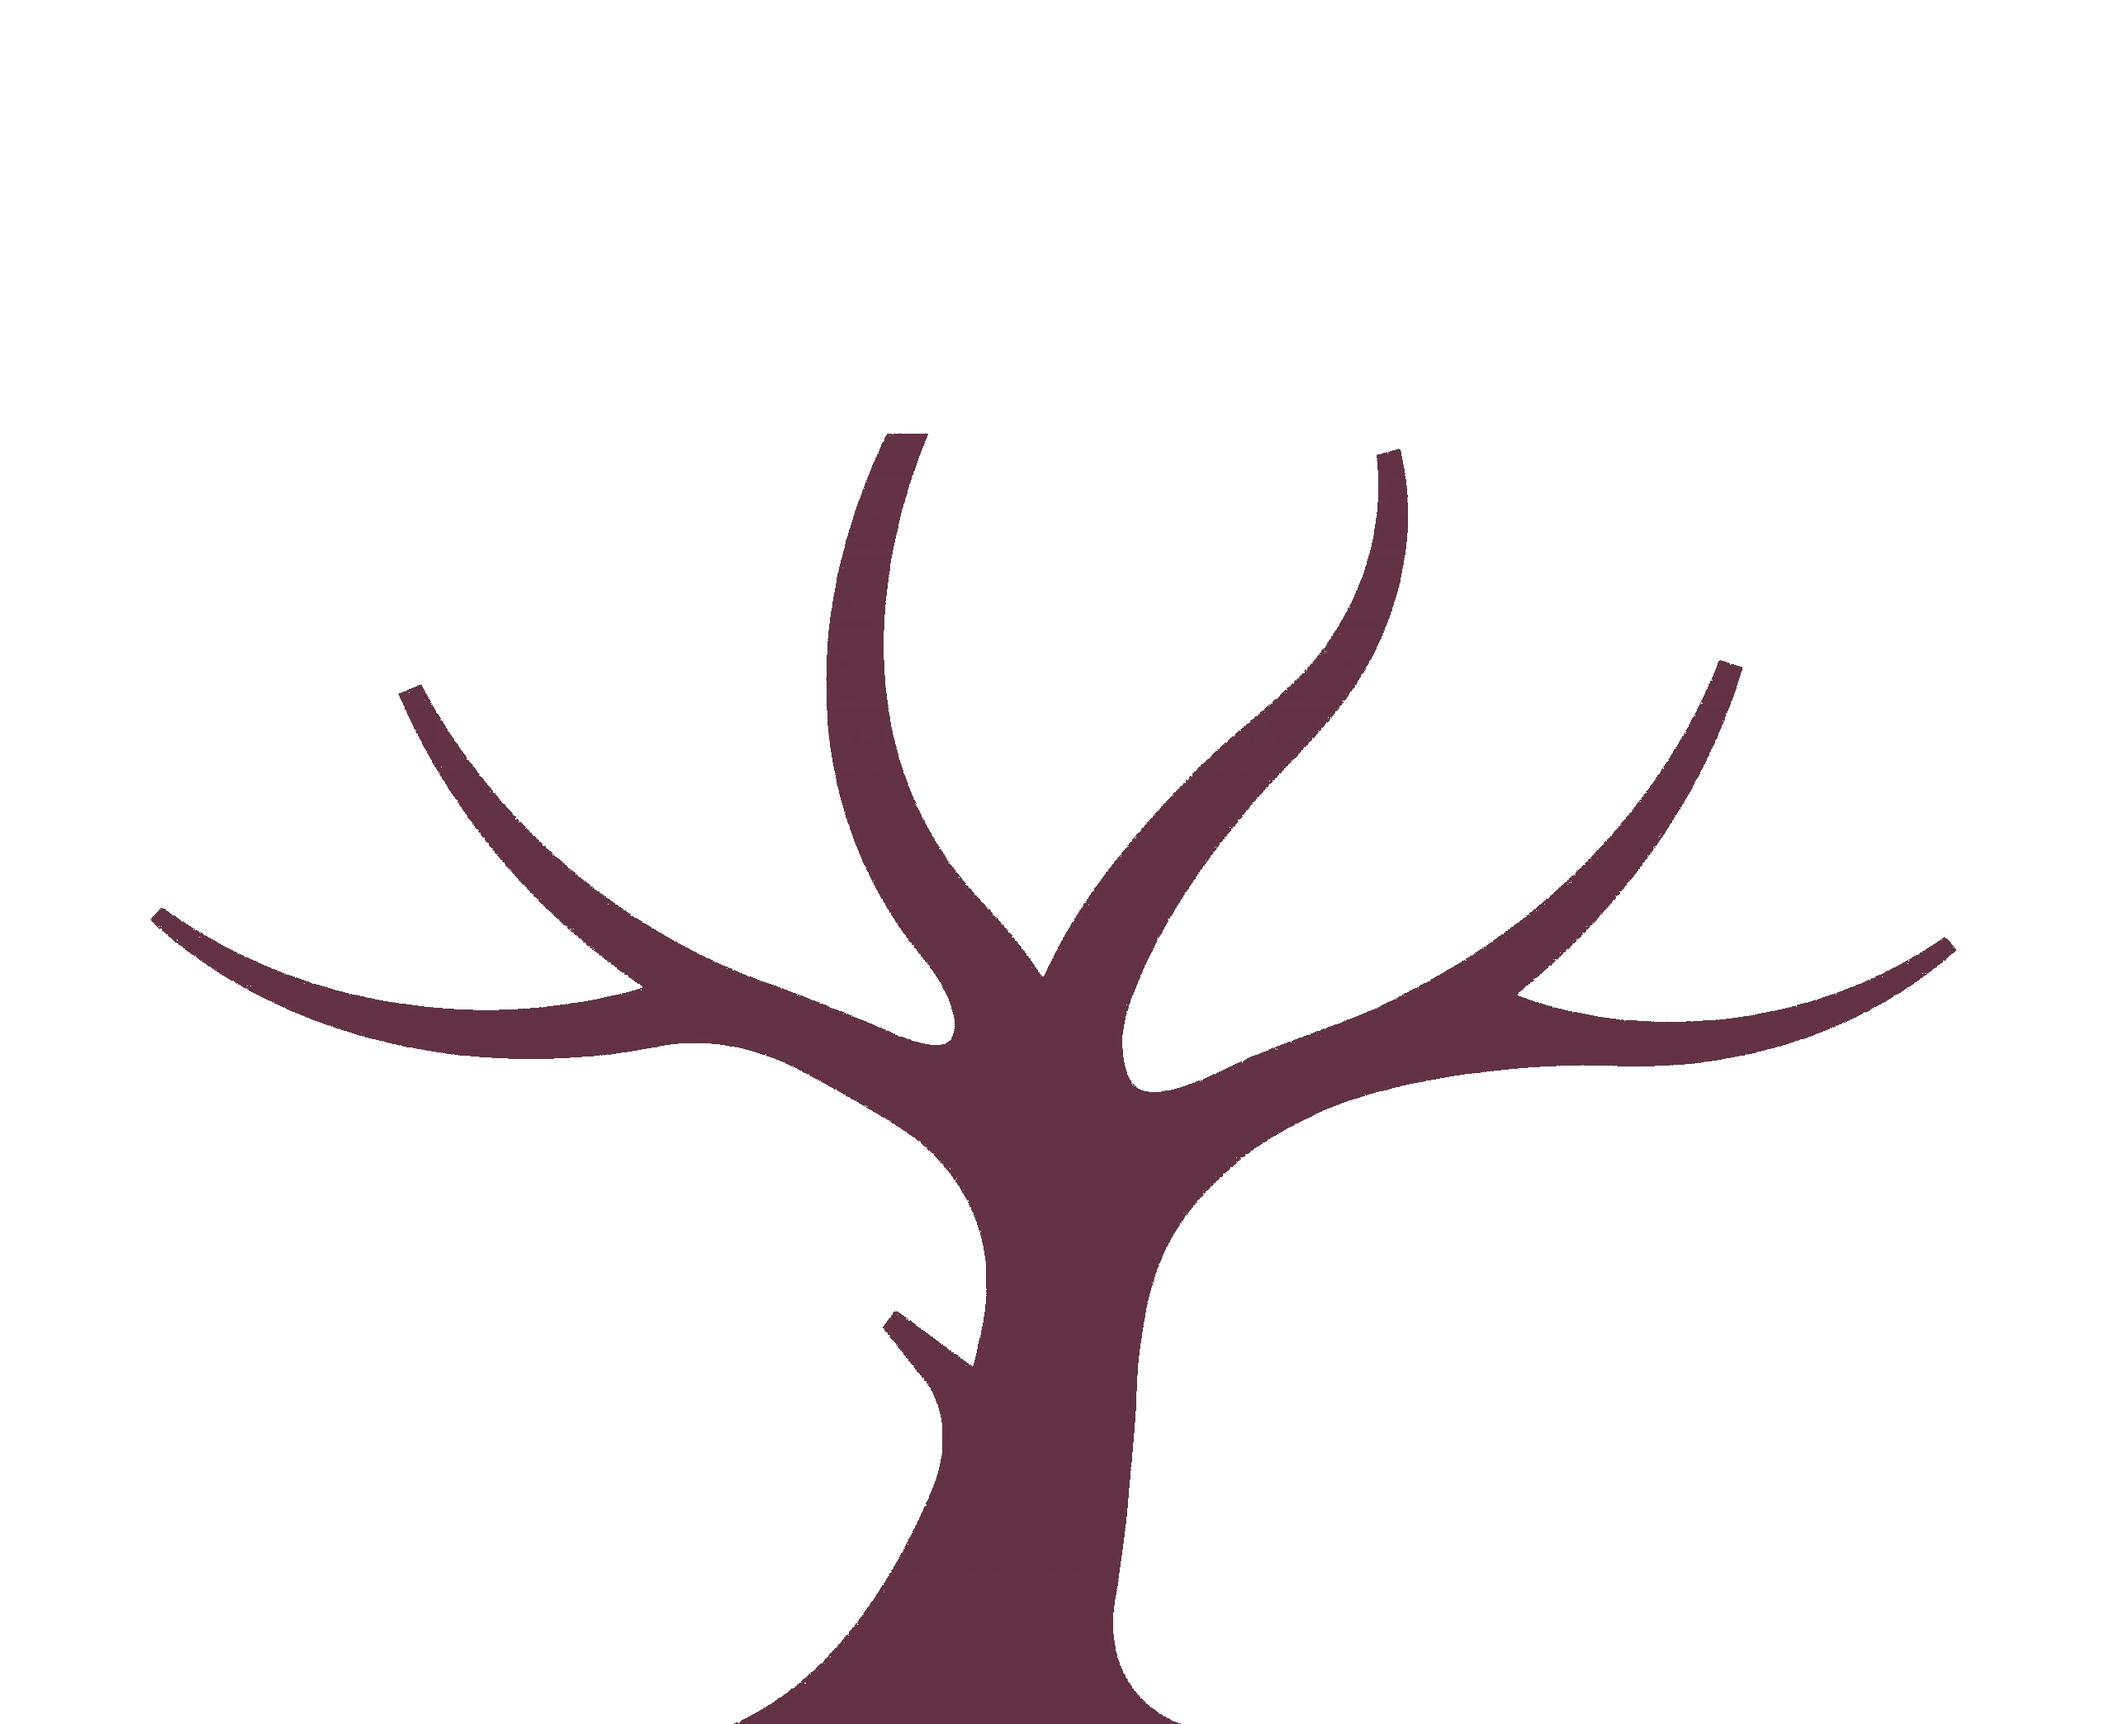
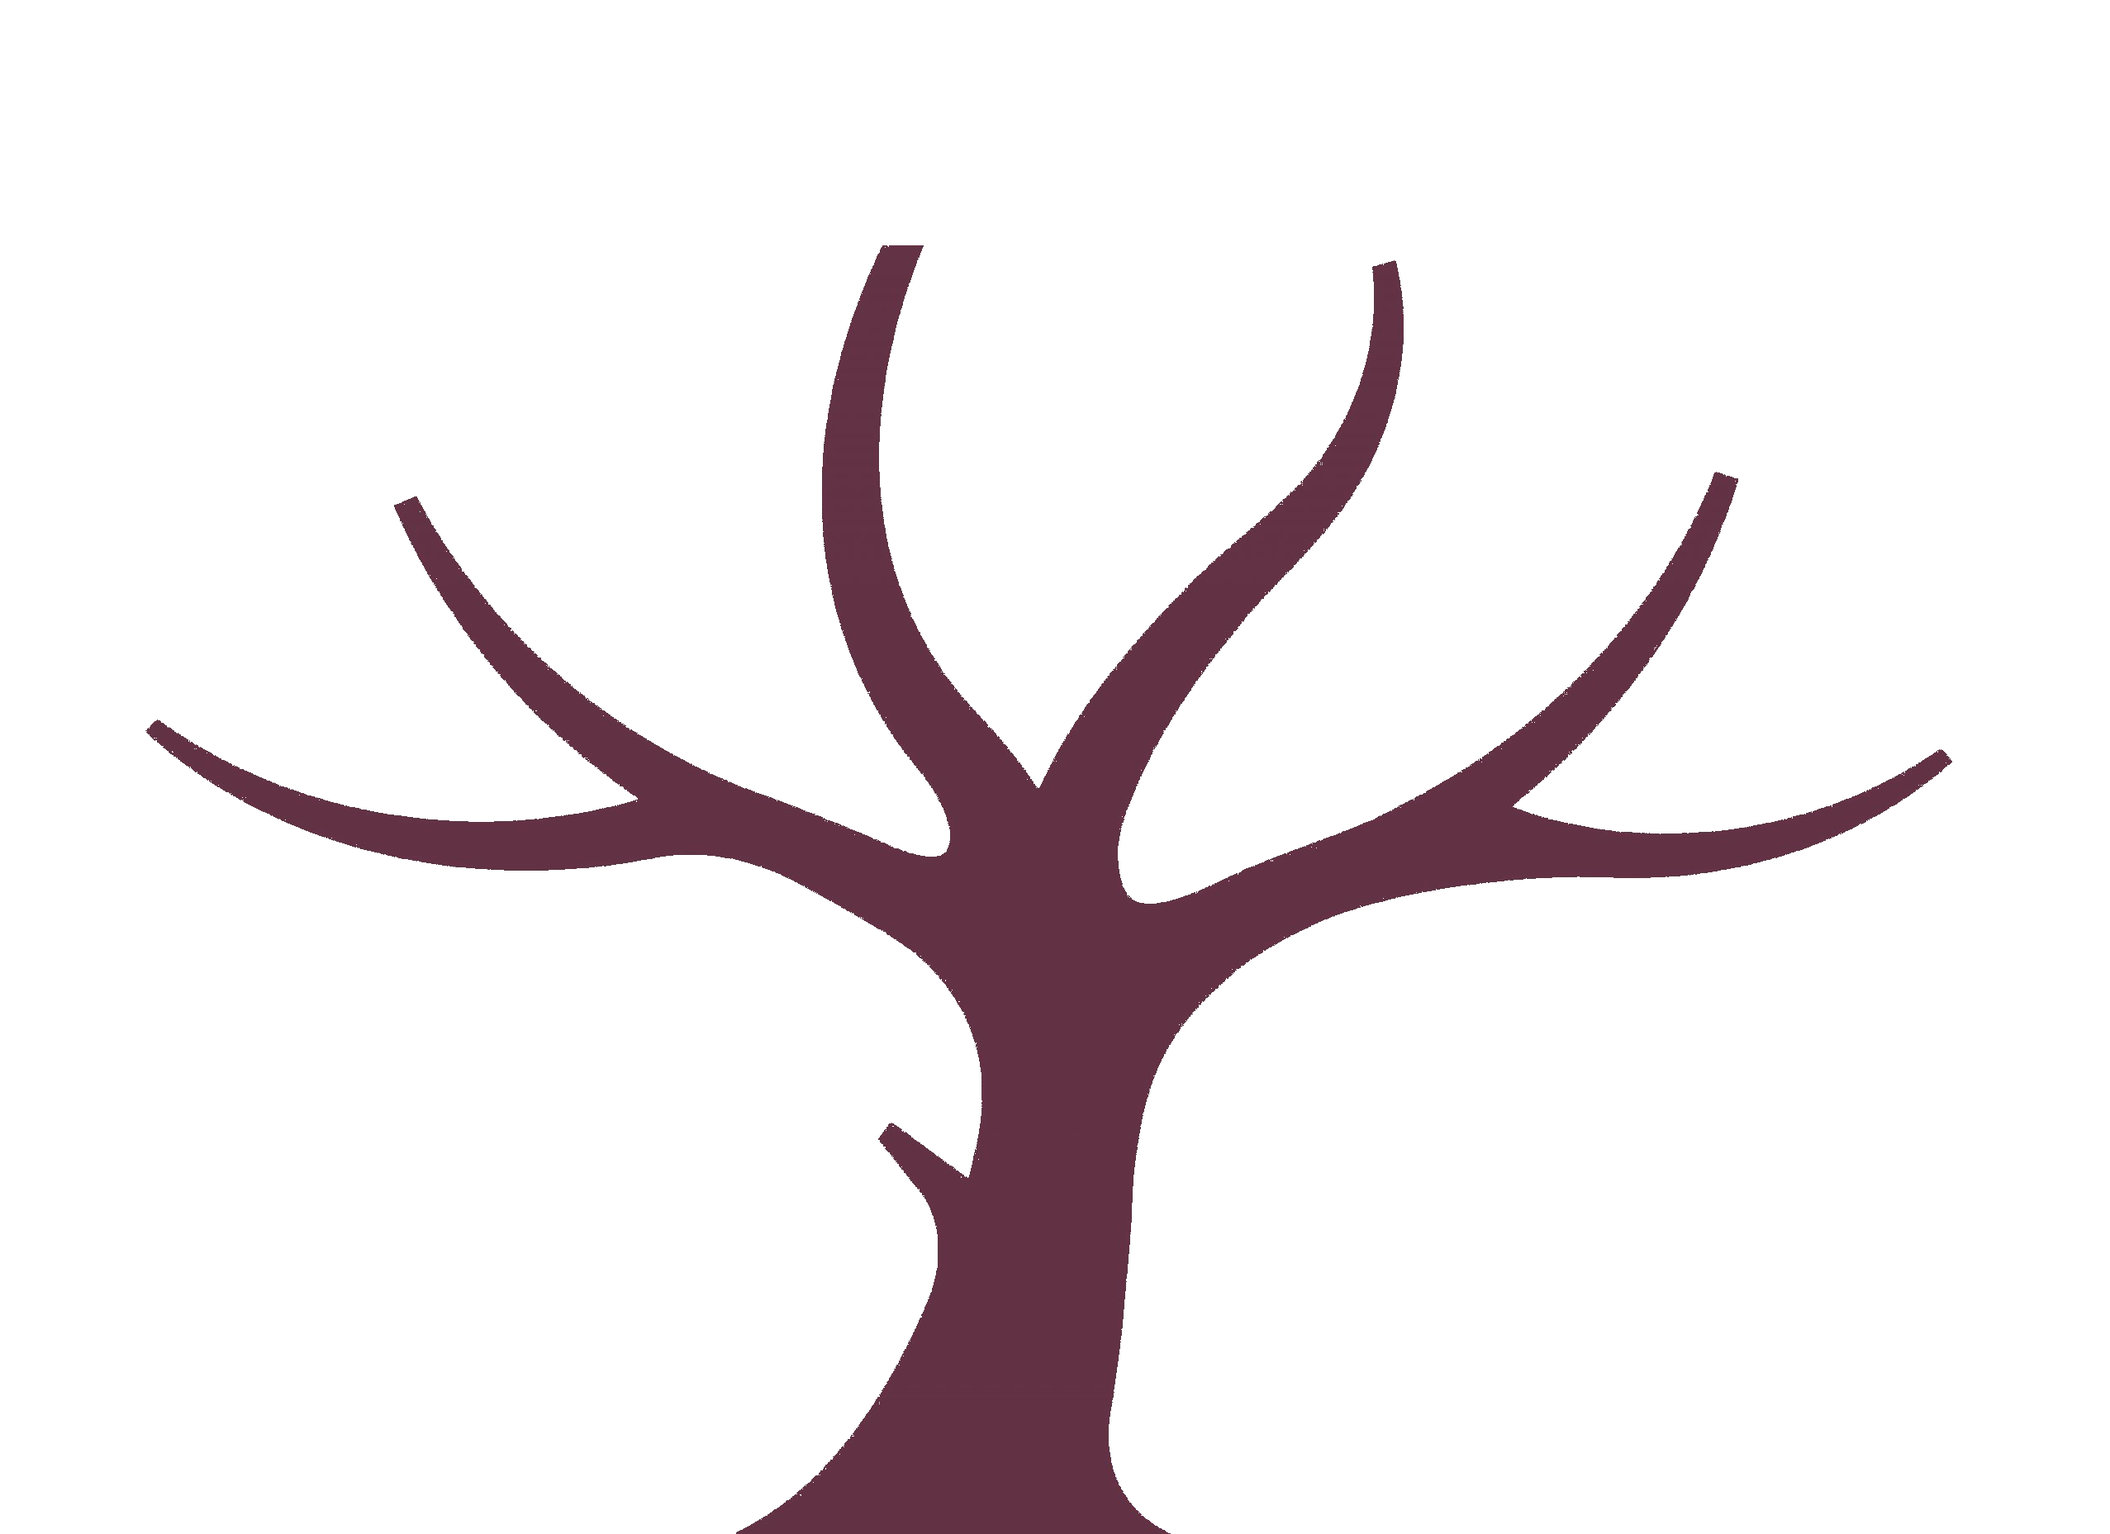
update tree, navbar

diff --git a/app/templates/tree.html b/app/templates/tree.html
@@ -8,13 +8,12 @@
 </head>
 
 <img src="" />
-<h1 id="foo">TESTOOOO</h1>
 <!-- Image Map Generated by http://www.image-map.net/ -->
 <div style="position: relative;">
     <!-- <img id="myimage" src="{{url_for('static', filename='tree.png')}}" usemap="#image-map"> -->
 
 
-    <img src="{{url_for('static', filename='tree.png')}}">
+    <img src="{{url_for('static', filename='tree.png')}}" style="width:100%">
     <a href="/icon1" style="position: absolute;top: 100px; left: 50px;"> <img class="icon"
             src="{{url_for('static', filename='idea.png')}}"> </a>
     <a href="/icon1" style="position: absolute;top: 300px; left: 250px;"> <img class="icon"

diff --git a/app/templates/base.html b/app/templates/base.html
@@ -14,7 +14,7 @@
                     <span class="icon-bar"></span>
                     <span class="icon-bar"></span>
                 </button>
-                <a class="navbar-brand" href="{{ url_for('index') }}">TreeYourself</a>
+                <a class="navbar-brand" href="{{ url_for('tree') }}">TreeYourself</a>
             </div>
             <div class="collapse navbar-collapse" id="bs-example-navbar-collapse-1">
                 <ul class="nav navbar-nav">
